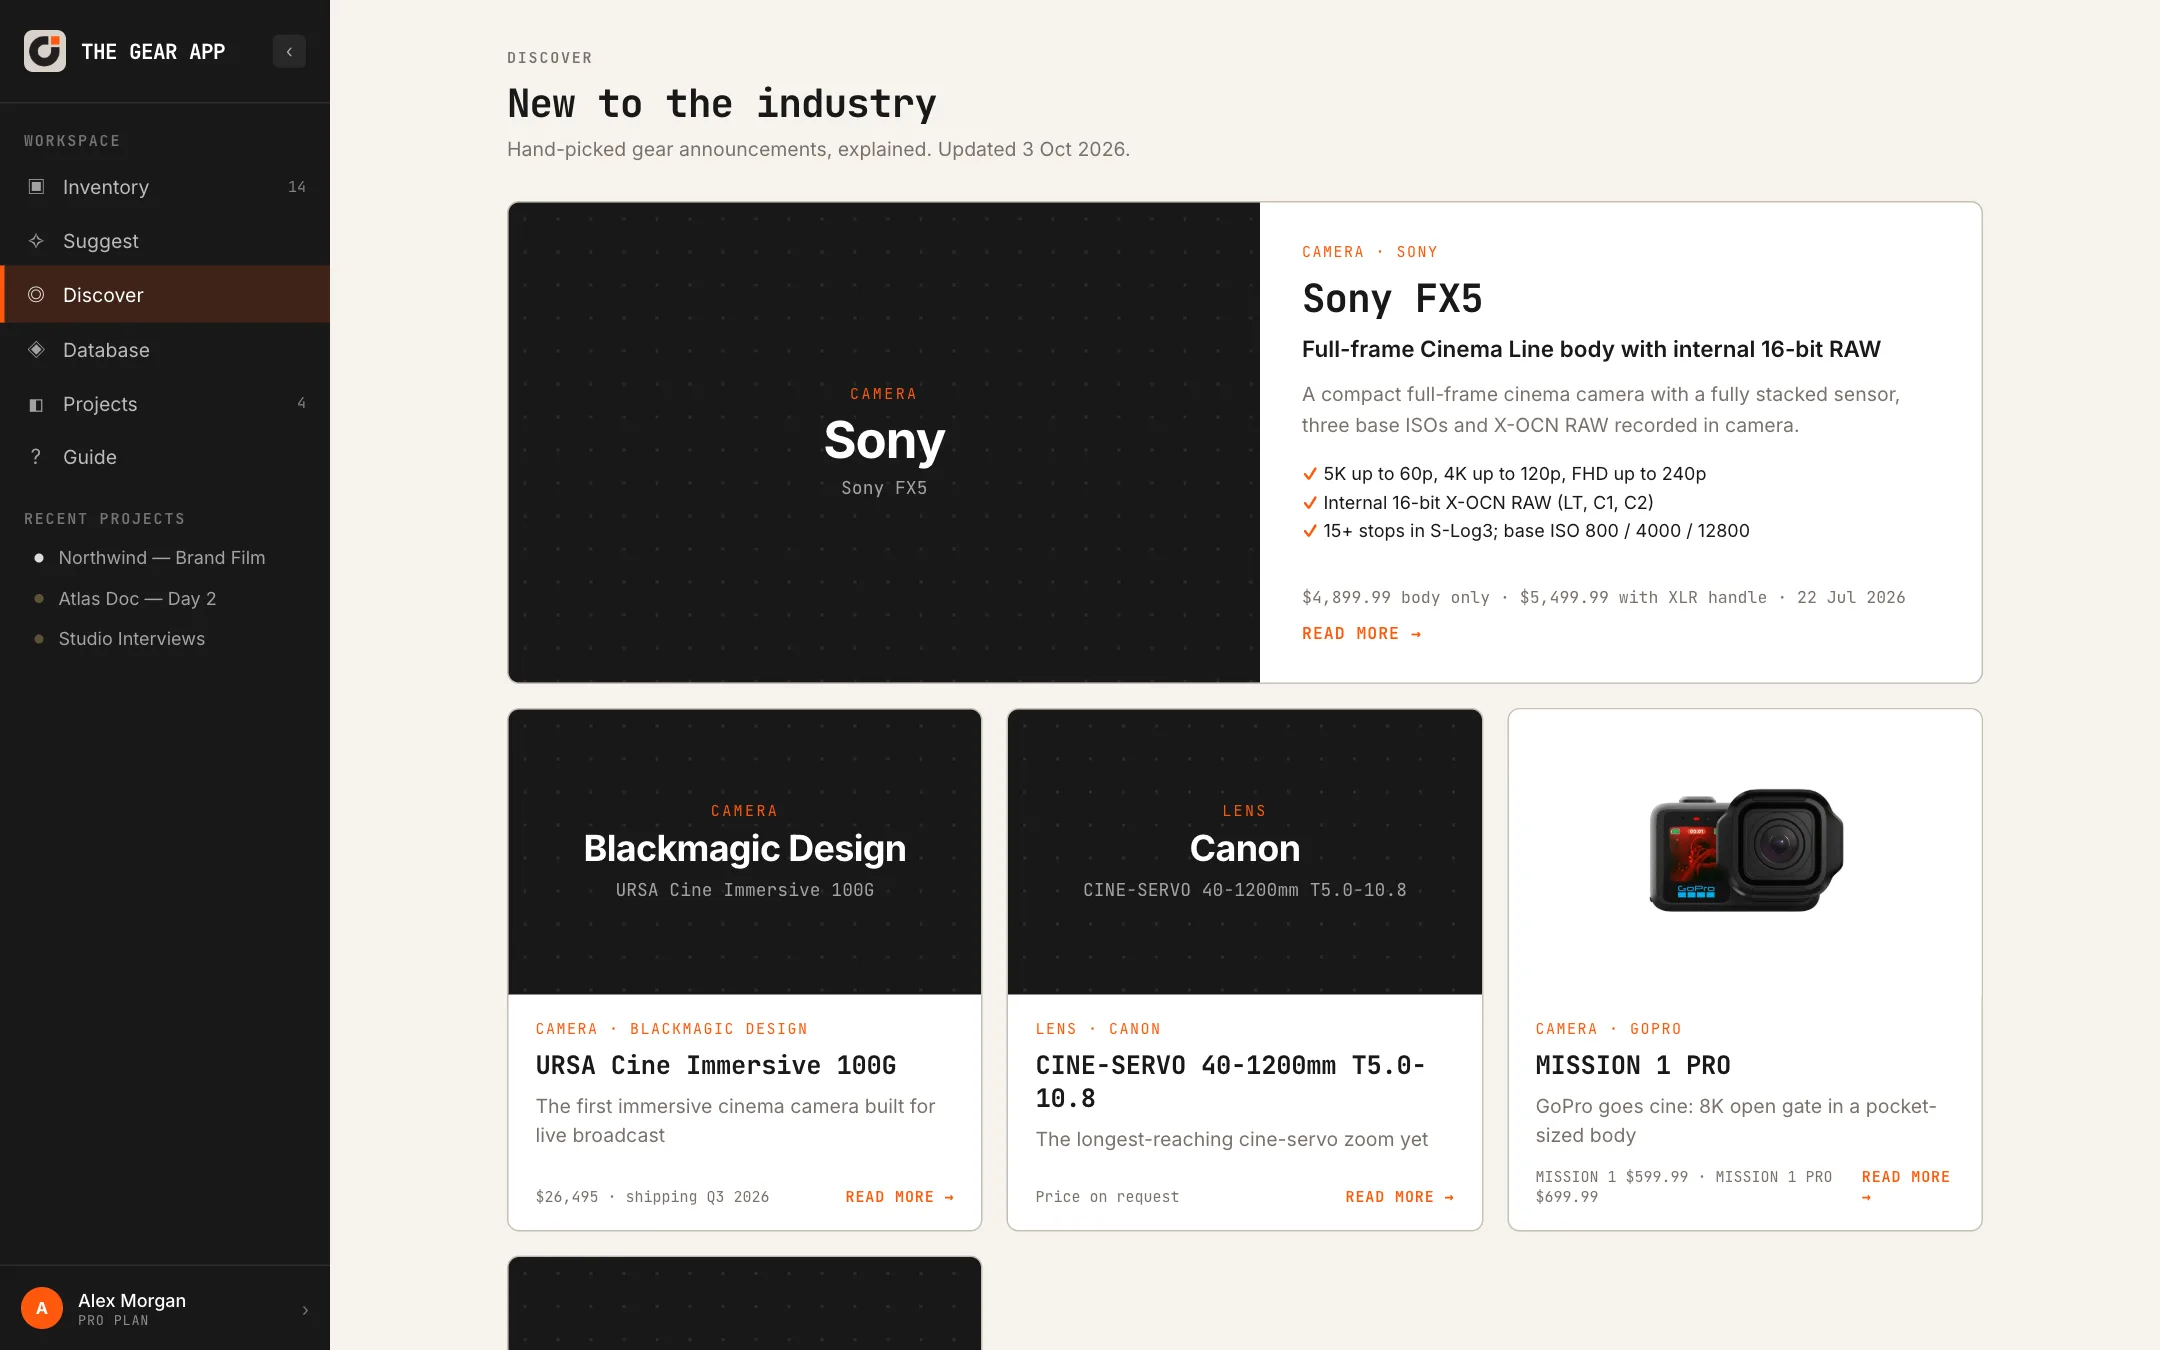
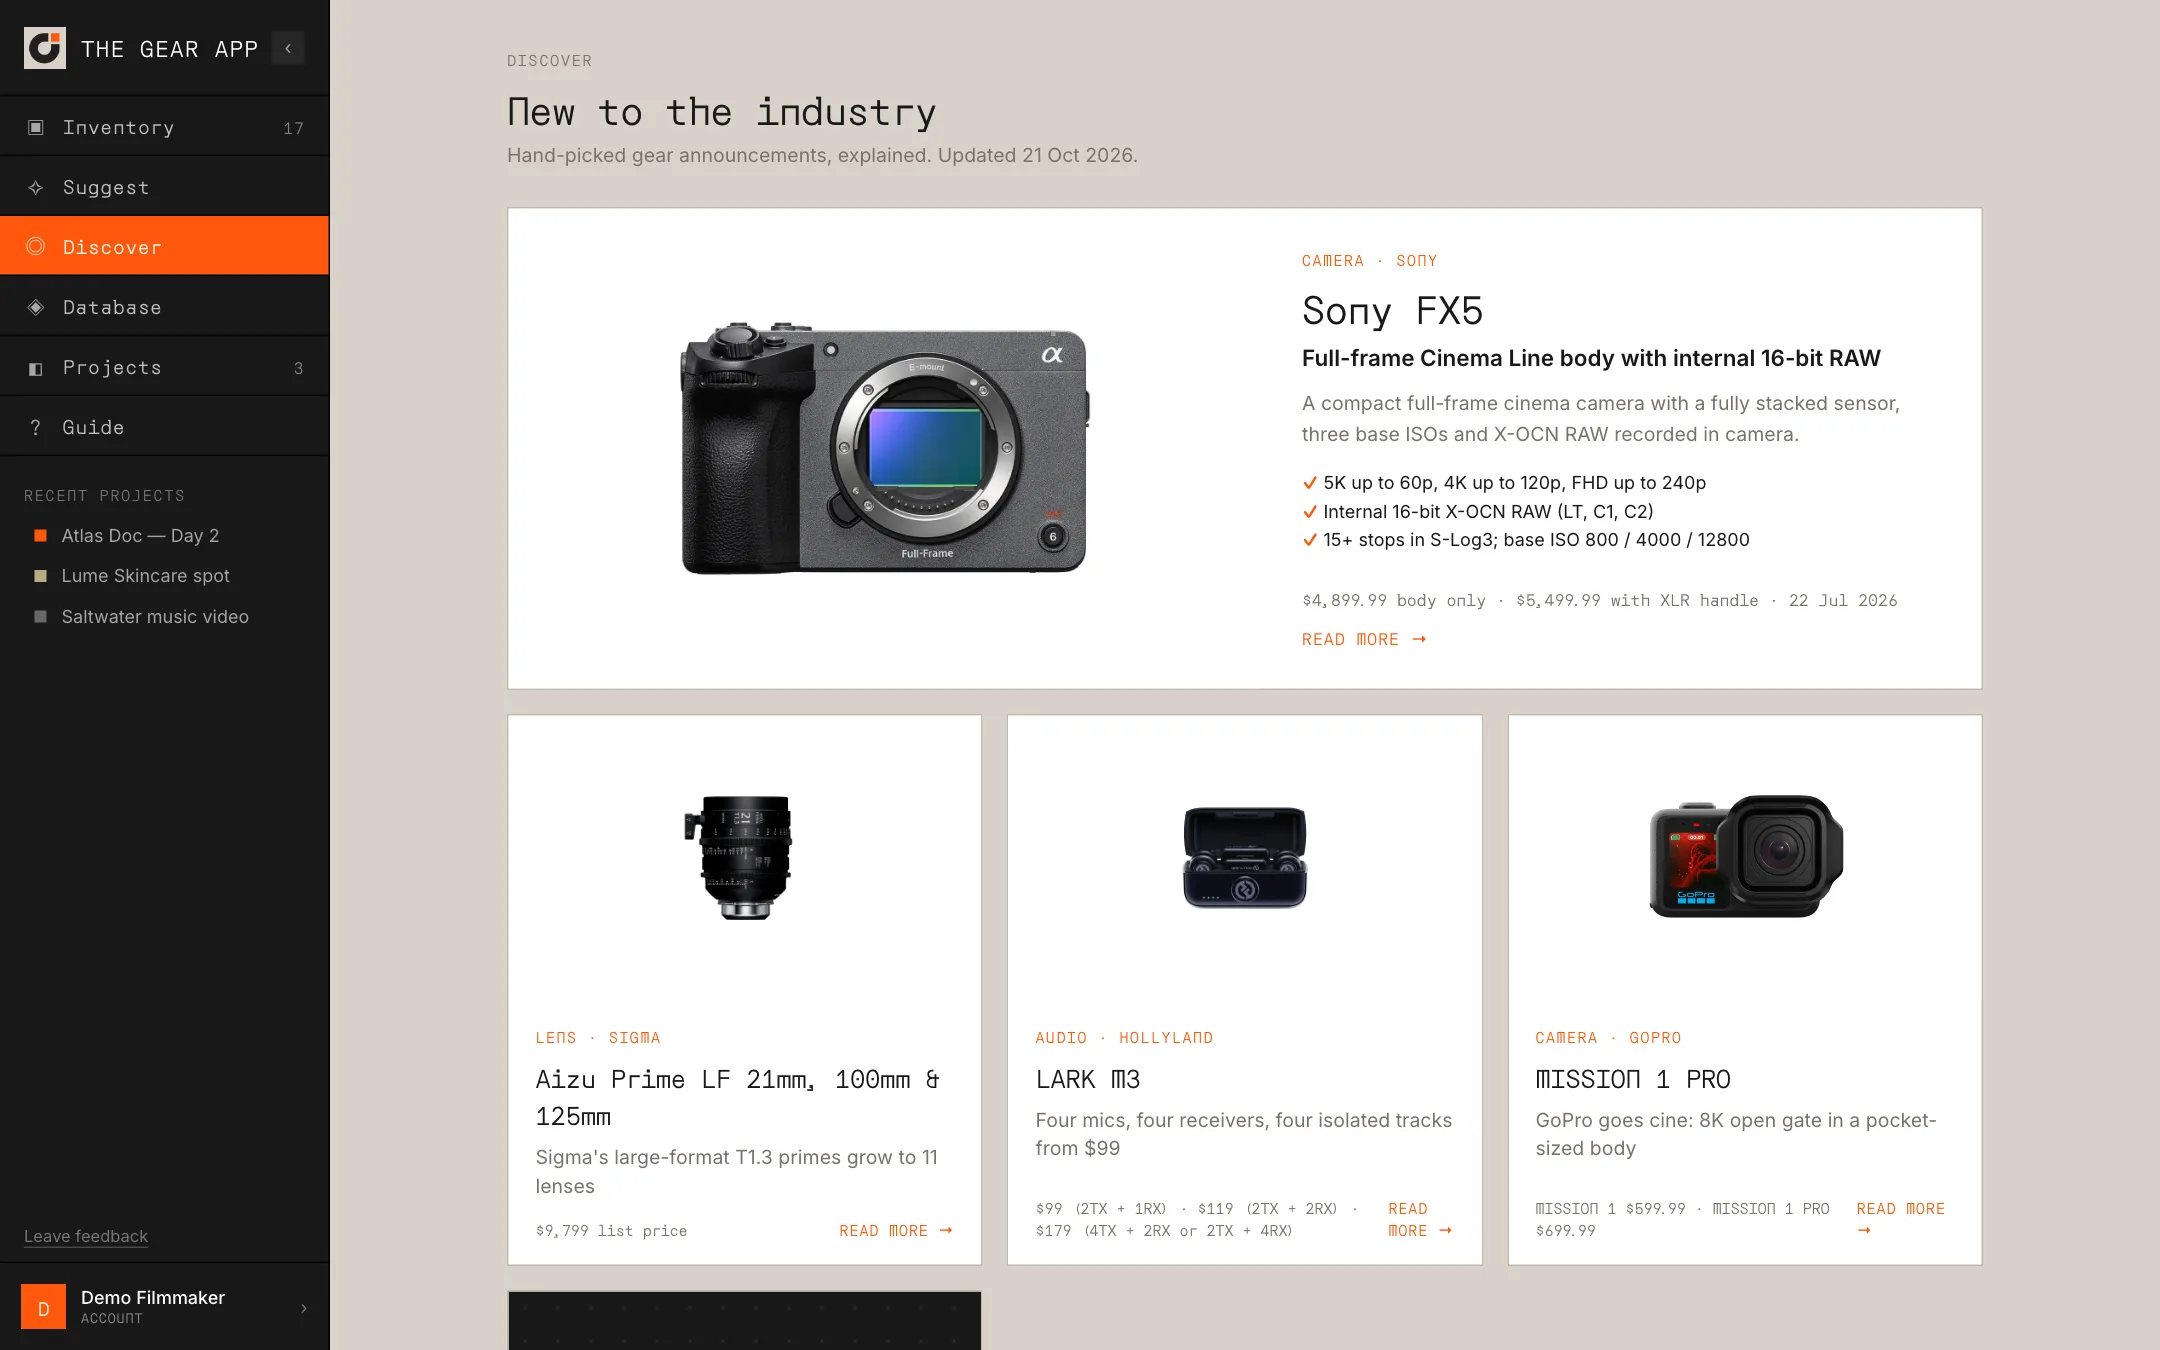
Collapse all button; retake Guide screenshots; record Discover refresh
- Inventory: Collapse all / Expand all at the right of the category filter
  bar (hidden while searching)
- Guide: new desktop (2160x1350) and phone (600x1158) screenshots in the
  current design
- Migration for the October Discover refresh (already applied): Sigma Aizu
  Prime LF 21/100/125mm, Hollyland LARK M3 and Nikon NIKKOR Z CINEMA T1.9 VV
  replace three older cards; new catalogue items for Sigma and Hollyland

diff --git a/studio-inventory.jsx b/studio-inventory.jsx
@@ -29,6 +29,10 @@
     const groupInputRefs = useRef({});
     // Group ids the user has manually collapsed (in-memory, per page mount).
     const [collapsedGroups, setCollapsedGroups] = useState(new Set());
+    // Every collapsible section: each group plus the ungrouped Items bucket.
+    const sectionKeys = [...groups.map(g => g.id), '_ungrouped'];
+    const allCollapsed = sectionKeys.every(k => collapsedGroups.has(k));
+    const toggleAllSections = () => setCollapsedGroups(allCollapsed ? new Set() : new Set(sectionKeys));
     const toggleGroupCollapse = (id) => setCollapsedGroups(prev => {
       const next = new Set(prev);
       next.has(id) ? next.delete(id) : next.add(id);
@@ -403,6 +407,17 @@
               {c}<span style={{ marginLeft: 6, opacity: 0.6, fontFamily: S.mono, fontSize: 9 }}>{items.filter(i => i.category === c).length}</span>
             </button>
           ))}
+          {/* Collapse or expand every section at once (hidden while searching,
+              when results are one flat list). */}
+          {!query.trim() && sectionKeys.length > 0 && (
+            <button onClick={toggleAllSections} title={allCollapsed ? 'Expand all groups' : 'Collapse all groups'}
+                    style={{ ...R.catChip(false), marginLeft: 'auto', display: 'flex', alignItems: 'center', gap: 8, flexShrink: 0 }}>
+              <svg width="10" height="10" viewBox="0 0 10 10" style={{ transition: 'transform .15s', transform: allCollapsed ? 'rotate(-90deg)' : 'none' }}>
+                <path d="M2 3.5 L5 6.5 L8 3.5" fill="none" stroke="currentColor" strokeWidth="1.6" strokeLinecap="round" strokeLinejoin="round" />
+              </svg>
+              {allCollapsed ? 'Expand all' : 'Collapse all'}
+            </button>
+          )}
         </div>
 
         <div
